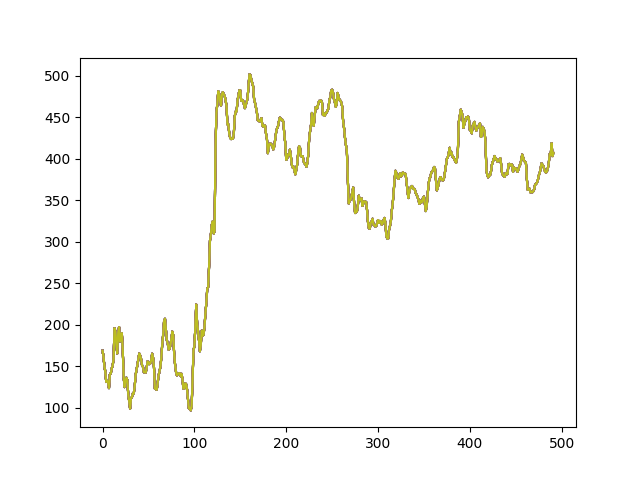
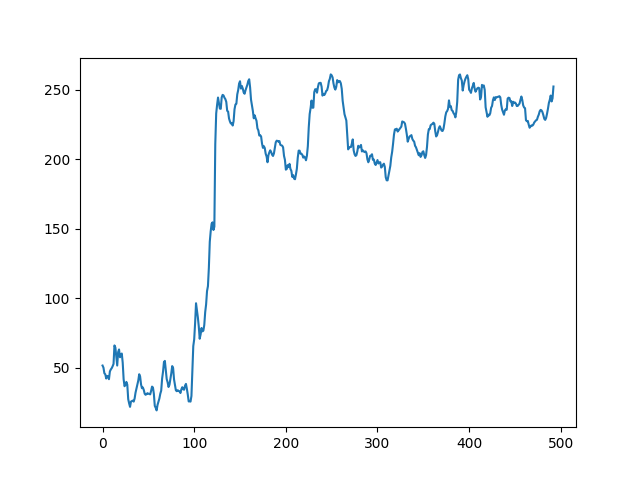
Custom report fully functionning

diff --git a/frontend/src/components/body/Graph.js b/frontend/src/components/body/Graph.js
@@ -1,4 +1,5 @@
 import React, {useState} from 'react'
+import { flushSync } from 'react-dom'
 import { useSelector, useDispatch } from 'react-redux'
 import { getGraph } from './../state/features/walletSlice'
 import plot from './plot.png'
@@ -32,7 +33,7 @@ function Graph() {
 
   //Graph update request function
   const updateGraph = () => {
-    console.log(token, report, period)
+  
     let request = {
       token: token,
       report: report,

diff --git a/frontend/src/components/state/features/walletSlice.js b/frontend/src/components/state/features/walletSlice.js
@@ -67,7 +67,7 @@ export const getGraph = createAsyncThunk(
   'graph/getGraph',
   async (data) => {
     try {
-      const response = await api.get(`/api/history/get`, data)
+      const response = await api.post(`/api/history/get`, data)
       return JSON.stringify(response)
     }
     catch (e) {

diff --git a/backend/utilities/graph.py b/backend/utilities/graph.py
@@ -2,14 +2,39 @@ import matplotlib.pyplot as plot
 
 import numpy as np
 
-def update_graph(history):
+def update_graph(history, req):
+                                                                                                                                                                                                                          
+    #The database data is converted into a numpy array in order to be easily manipulated
+    dataframe = np.array(history)
 
-    x = np.arange(0,len(history))
+    #The report request is parsed in order to select 
+    
+    #1) the right amount of data (ie: the period)
+    days = 1
+    if req['period'] == 'day' :
+        days = 1
+    elif req['period'] == 'week' :
+        days = 7
+    elif req['period'] == 'month' :
+        days = 30
+    elif req['period'] == 'all' :
+        days = 99999999999
+    
+    #The initial dataframe is sliced in order to keep only the right number of entries
+    data = dataframe[-6*24*days:] #The scheduler is set up to backup wallet data every 10 minutes so to get a full day of data you have to get 6*24 database entries. 
 
-    y = np.zeros(len(history))
+    #2) The right data
+    request = f"{req['token']}_{req['report']}"
 
-    for i, entry in enumerate(history) :
-        y[i] = entry['total_profit']
+    #Creation of x and y arrays that will be passed on to matplotlib
+    x = np.arange(0,len(data))
+    y = np.zeros(len(data))
+    for i, entry in enumerate(data) :
+        y[i] = entry[request]
 
+    #I clear the existing figure to prevent plots to stack on the figure 
+    plot.clf()
+    #The plot is drawn
     plot.plot(x, y)
+    #The figure is saved
     plot.savefig('../frontend/src/components/body/plot.png')

diff --git a/backend/views.py b/backend/views.py
@@ -112,17 +112,12 @@ def backup_wallet_data():
 
 # Get wallet history
 
-@routes.route("/api/history/get", methods=['GET'])
+@routes.route("/api/history/get", methods=['POST'])
 def get_wallet_history():
+
+    req = request.json
+
     data = History.query.all()
-    update_graph(histories_schema.dump(data))
-    return histories_schema.dump(data)
+    update_graph(histories_schema.dump(data), req)
 
-####### Graph generation route
-
-# Generate an up to date graph
-
-@routes.route("/api/graph", methods=['GET'])
-def generate_graph():
-    response = 'graph generated'
-    return response
+    return 'ok'
